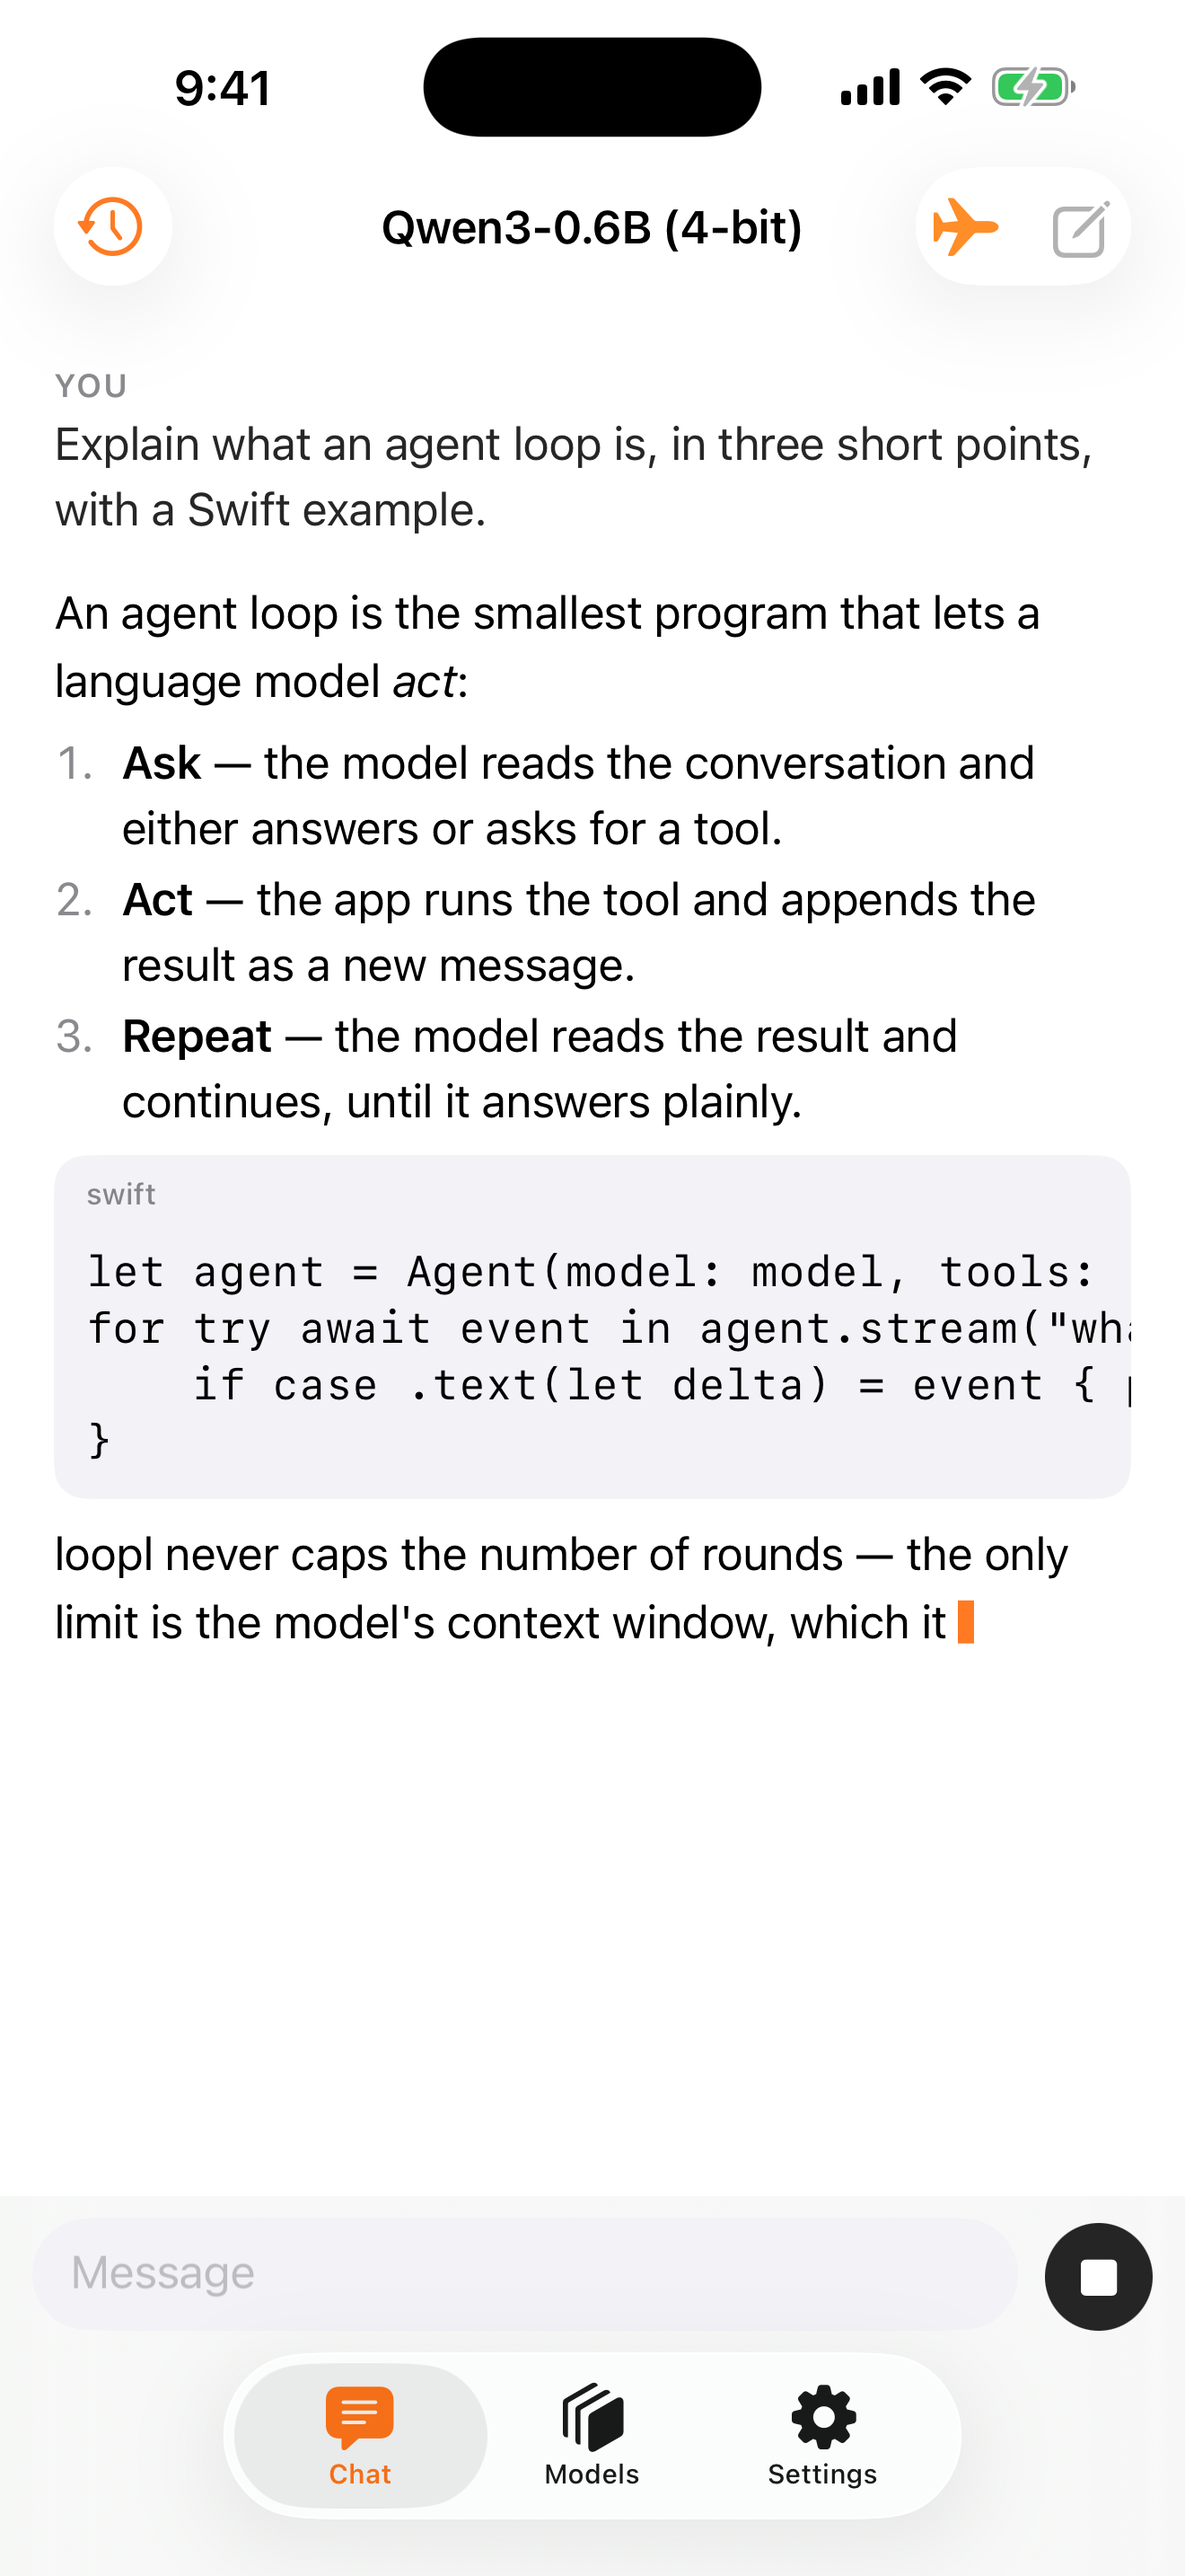
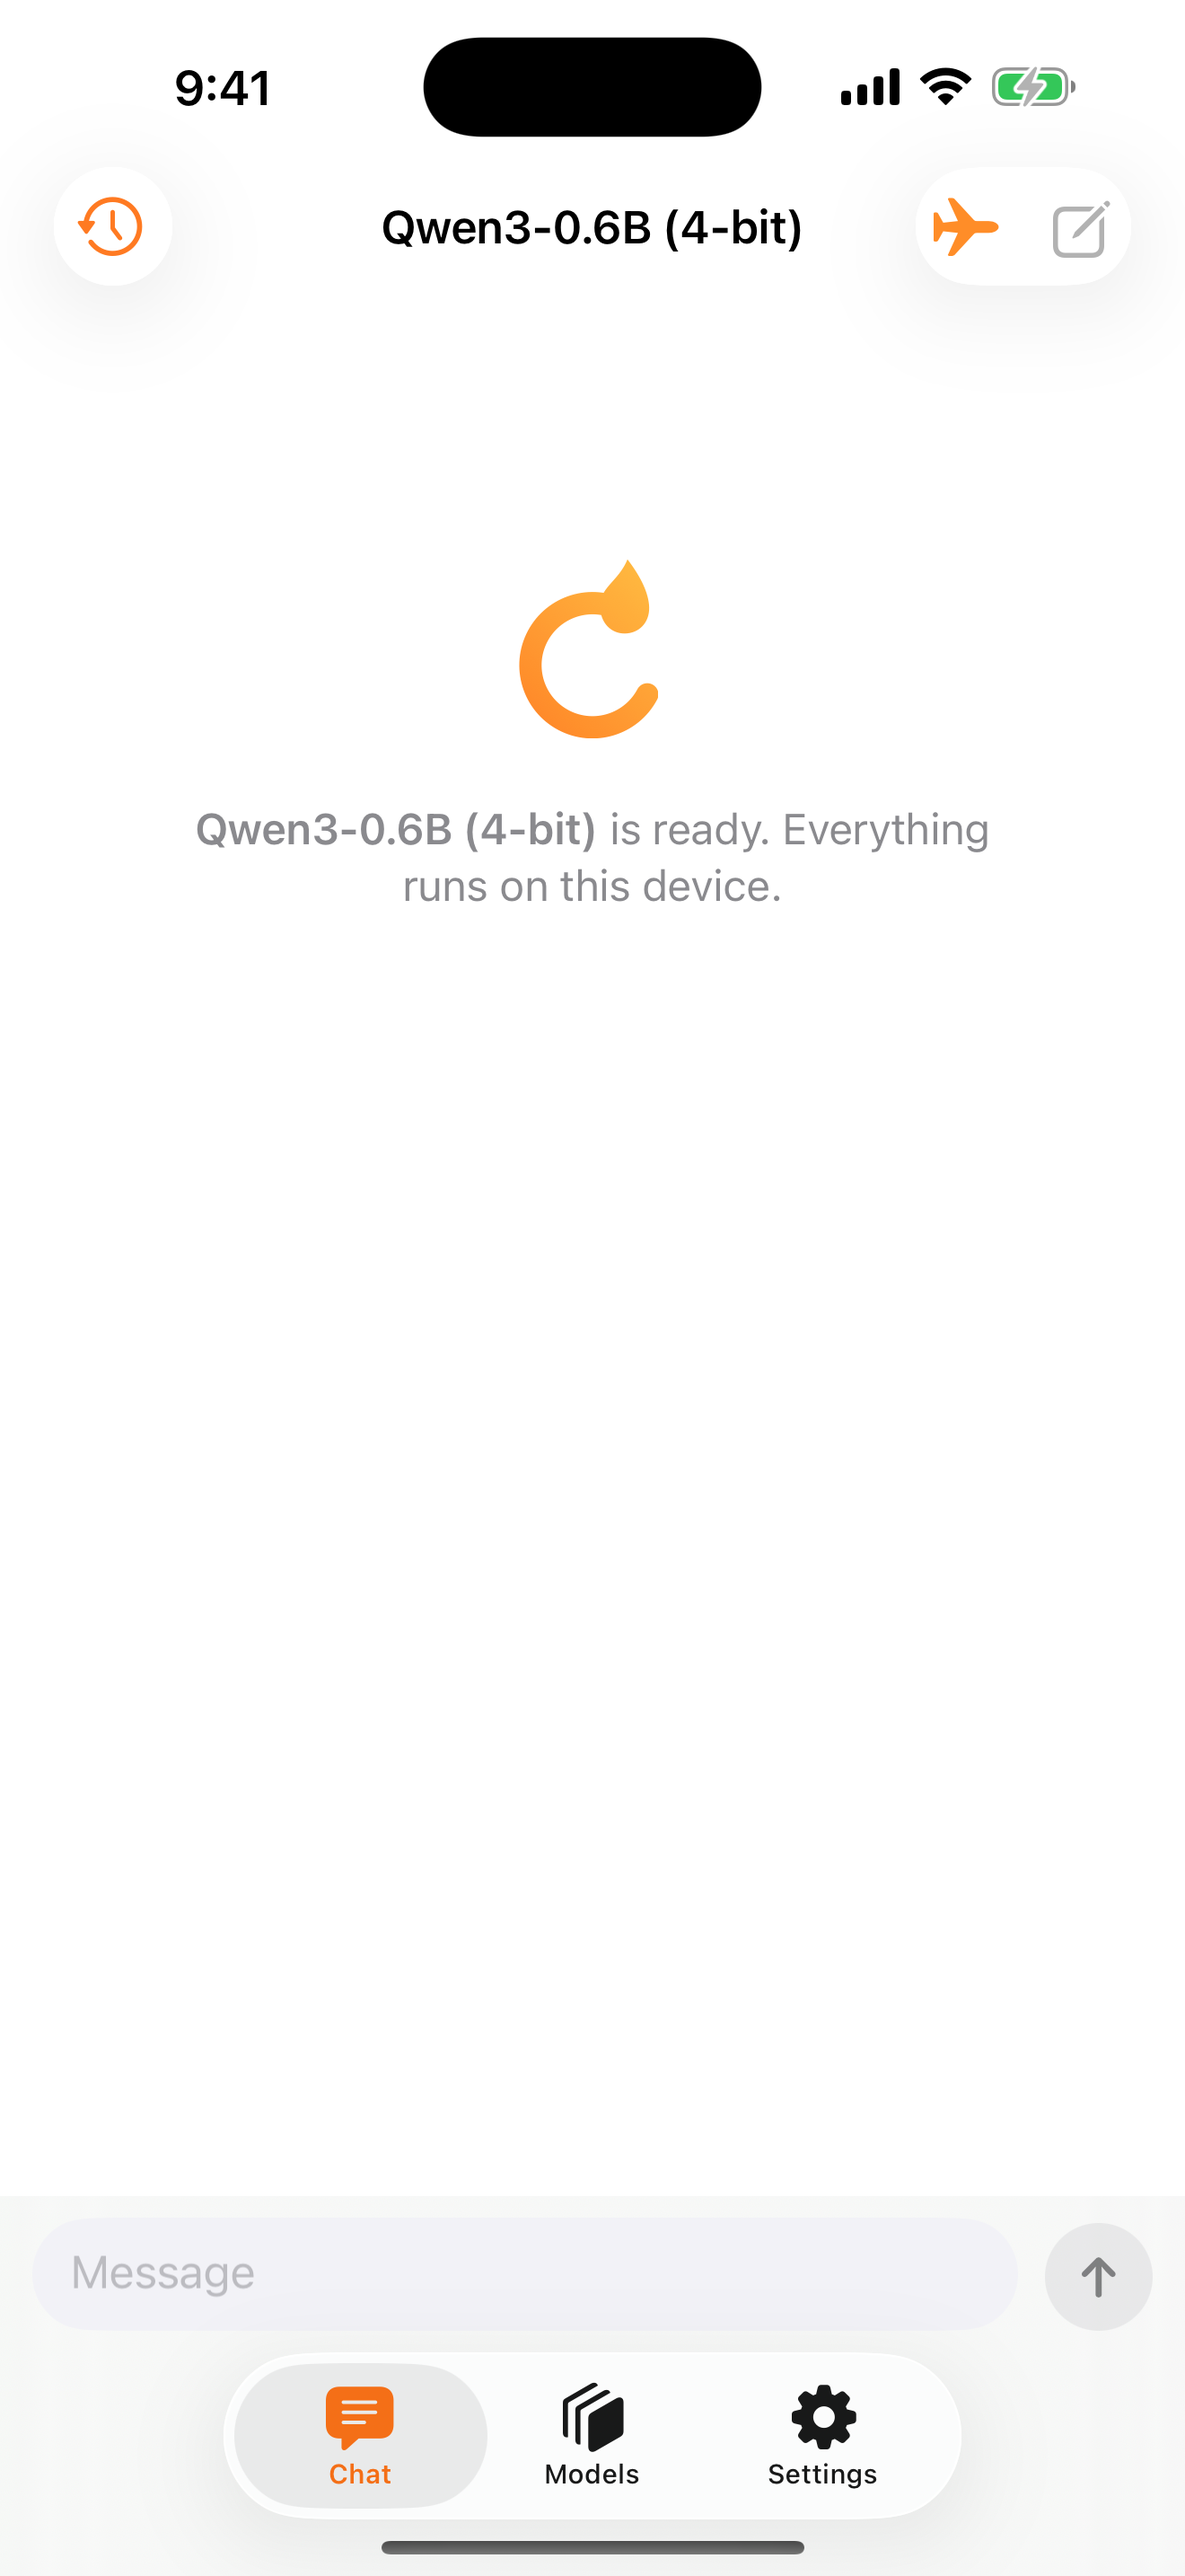
design: App Store set re-shot on the Strands-loop build + iPad 13" set (2064×2752); tool scene opens its rows (AgentTranscriptView expandTools); offline scene = empty state + airplane

diff --git a/Sources/LooplUI/Components.swift b/Sources/LooplUI/Components.swift
@@ -177,10 +177,10 @@ public struct UserBubble: View {
 public struct ToolRow: View {
     public var call: ToolUse
     public var result: ToolResult?
-    @State private var expanded = false
+    @State private var expanded: Bool
     @State private var spin = false
     @Environment(\.accessibilityReduceMotion) private var reduceMotion
-    public init(call: ToolUse, result: ToolResult?) { self.call = call; self.result = result }
+    public init(call: ToolUse, result: ToolResult?, expanded: Bool = false) { self.call = call; self.result = result; _expanded = State(initialValue: expanded) }
 
     public var body: some View {
         VStack(alignment: .leading, spacing: 8) {
@@ -334,16 +334,18 @@ public struct TokenMeter: View {
 public struct AgentTranscriptView<Empty: View, Banner: View>: View {
     public var transcript: Transcript
     public var showPerformance: Bool
+    /// Open every tool row by default (fixtures / screenshots); rows still toggle.
+    public var expandTools = false
     private let empty: () -> Empty
     private let banner: () -> Banner
     @State private var pinned = true
     @State private var lastCount = 0
     @Environment(\.accessibilityReduceMotion) private var reduceMotion
 
-    public init(_ transcript: Transcript, showPerformance: Bool = false,
+    public init(_ transcript: Transcript, showPerformance: Bool = false, expandTools: Bool = false,
                 @ViewBuilder banner: @escaping () -> Banner = { EmptyView() },
                 @ViewBuilder empty: @escaping () -> Empty) {
-        self.transcript = transcript; self.showPerformance = showPerformance; self.banner = banner; self.empty = empty
+        self.transcript = transcript; self.showPerformance = showPerformance; self.expandTools = expandTools; self.banner = banner; self.empty = empty
     }
 
     public var body: some View {
@@ -403,7 +405,7 @@ public struct AgentTranscriptView<Empty: View, Banner: View>: View {
         switch item.kind {
         case .user(let s): UserTurn(s).padding(.top, 8)
         case .assistant(let s): StreamingTextView(s, streaming: transcript.isRunning && item.id == transcript.items.last?.id)
-        case .toolUse(let c, let r): ToolRow(call: c, result: r)
+        case .toolUse(let c, let r): ToolRow(call: c, result: r, expanded: expandTools)
         case .reasoning(let r): Text(r).font(.caption).foregroundStyle(.secondary).italic()
         case .note(let s): Text(s).font(.caption).foregroundStyle(.tertiary)
         }

diff --git a/App/Sources/DesignFixture.swift b/App/Sources/DesignFixture.swift
@@ -19,6 +19,9 @@ enum DesignFixture {
         return CommandLine.arguments[i + 1]
     }
 
+    /// The `tool` scene opens its tool rows so a screenshot shows the args/result card.
+    static var expandTools: Bool { requested && scene == "tool" }
+
     /// `--design-tab chat|models|settings` picks the pane the fixture opens on.
     static var initialPane: RootView.Pane {
         #if DEBUG
@@ -36,7 +39,7 @@ enum DesignFixture {
         settings.offline = scene == "offline"
         var t = Transcript()
         switch scene {
-        case "empty":
+        case "empty", "offline":
             break
         case "downloading":
             engine.readiness = .downloading(spec, done: 162_000_000, total: spec.sizeBytes)

diff --git a/App/Sources/Views/ChatView.swift b/App/Sources/Views/ChatView.swift
@@ -15,7 +15,7 @@ struct ChatView: View {
     var body: some View {
         NavigationStack {
             VStack(spacing: 0) {
-                AgentTranscriptView(engine.transcript, showPerformance: settings.showPerformance) {
+                AgentTranscriptView(engine.transcript, showPerformance: settings.showPerformance, expandTools: DesignFixture.expandTools) {
                     readinessBanner
                 } empty: {
                     EmptyState(hint: emptyHint)
